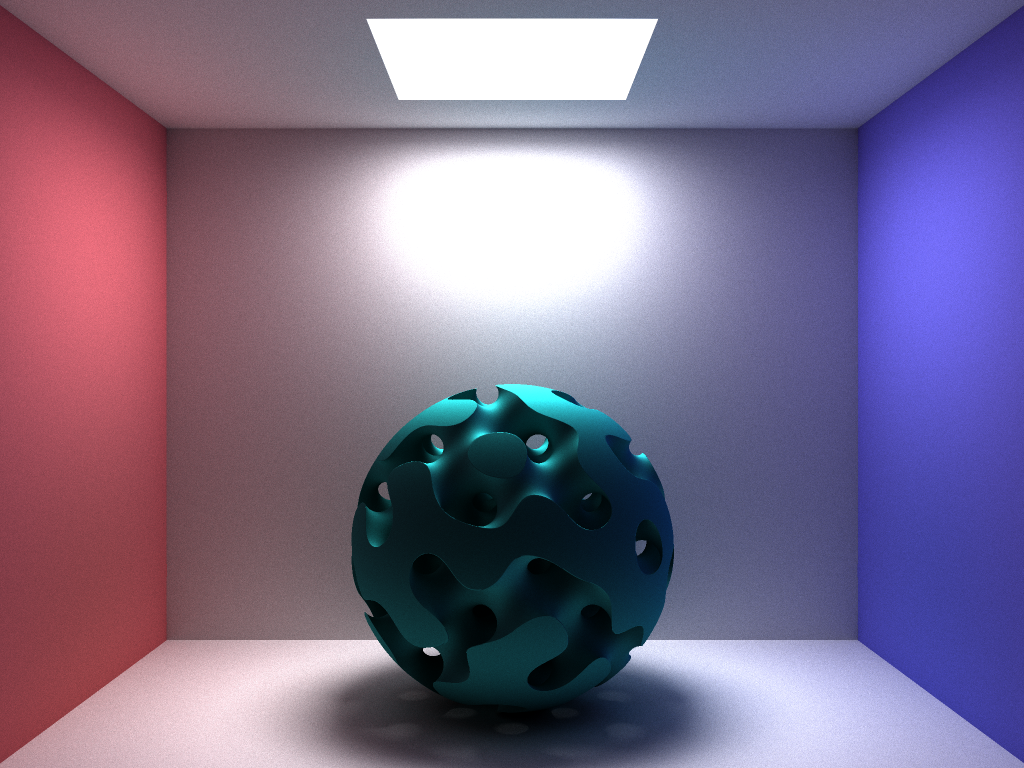
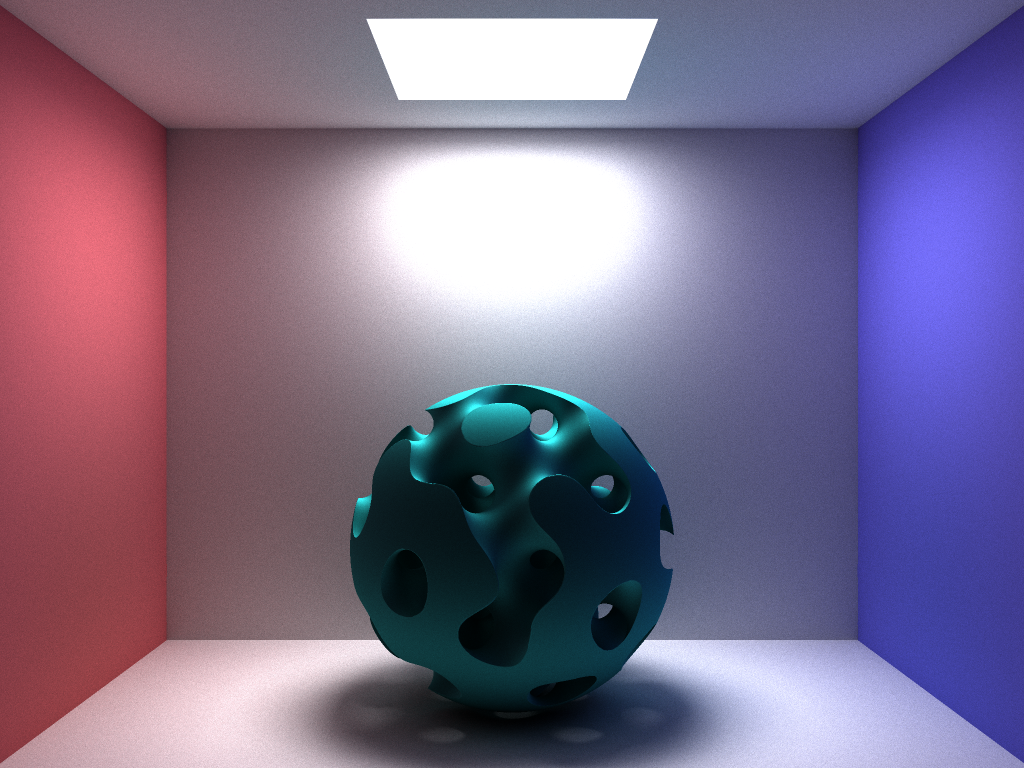
gyroid.png

Changed region(s): [[0.3438, 0.5, 0.6562, 0.9062], [0.5938, 0.6562, 0.6562, 0.75]]

diff --git a/client_main.cpp b/client_main.cpp
@@ -48,16 +48,17 @@ int main(int argc, char *argv[])
 	// gScene->SetObjectSpecularity(ConstructObjectID, 0.1);
 
 	// ======== CSG: gyroid in sphere
-	// uint32_t Sphere2ObjectID=gScene->AddObject(Object::ObjectType::SPHERE);
-	// gScene->SetObjectProperty(Sphere2ObjectID, Object::ObjectProperty::DIAMETER, 100.0);
-	// gScene->SetObjectPosition(Sphere2ObjectID, 0, 50, ObjectZpos);
+	uint32_t Sphere2ObjectID=gScene->AddObject(Object::ObjectType::SPHERE);
+	gScene->SetObjectProperty(Sphere2ObjectID, Object::ObjectProperty::DIAMETER, 100.0);
+	gScene->SetObjectPosition(Sphere2ObjectID, 0, 50, ObjectZpos);
 
-	// uint32_t GyroidObjectID=gScene->AddObject(Object::ObjectType::GYROID);
-	// gScene->SetObjectProperty(GyroidObjectID, Object::ObjectProperty::SCALE, 10.0);
-	// gScene->SetObjectPosition(GyroidObjectID, 0, 50, ObjectZpos);
+	uint32_t GyroidObjectID=gScene->AddObject(Object::ObjectType::GYROID);
+	gScene->SetObjectProperty(GyroidObjectID, Object::ObjectProperty::SCALE, 12.0);
+	gScene->SetObjectPosition(GyroidObjectID, 0, 50, ObjectZpos);
+	gScene->SetObjectOrientation(GyroidObjectID, 1, 0, 0, 0);
 
-	// uint32_t GyroidInSphereObjectID=gScene->AddObject(Object::ObjectType::INTERSECTION, Sphere2ObjectID, GyroidObjectID);
-	// gScene->SetObjectColor(GyroidInSphereObjectID, 30, 130, 130);
+	uint32_t GyroidInSphereObjectID=gScene->AddObject(Object::ObjectType::INTERSECTION, Sphere2ObjectID, GyroidObjectID);
+	gScene->SetObjectColor(GyroidInSphereObjectID, 30, 130, 130);
 
 	// ======== CSG: Schwarz primitive in sphere
 	// uint32_t Sphere3ObjectID=gScene->AddObject(Object::ObjectType::SPHERE);
@@ -106,13 +107,13 @@ int main(int argc, char *argv[])
 	RedSphere->SetColor(255, 52, 52);
 	// RedSphere->SetTransparency(0.5);
 
-	uint32_t Cylinder1ObjectID=gScene->AddObject(Object::ObjectType::CYLINDER);
-	gScene->SetObjectProperty(Cylinder1ObjectID, Object::ObjectProperty::DIAMETER, 60);
-	gScene->SetObjectProperty(Cylinder1ObjectID, Object::ObjectProperty::LENGTH, 60);
-	gScene->SetObjectPosition(Cylinder1ObjectID, 0, 50, ObjectZpos);
-	gScene->SetObjectOrientation(Cylinder1ObjectID, 1, 0, 1, 0);
-	gScene->SetObjectColor(Cylinder1ObjectID, 120, 20, 120);
-	gScene->SetObjectSpecularity(Cylinder1ObjectID, 1.0);
+	// uint32_t Cylinder1ObjectID=gScene->AddObject(Object::ObjectType::CYLINDER);
+	// gScene->SetObjectProperty(Cylinder1ObjectID, Object::ObjectProperty::DIAMETER, 60);
+	// gScene->SetObjectProperty(Cylinder1ObjectID, Object::ObjectProperty::LENGTH, 60);
+	// gScene->SetObjectPosition(Cylinder1ObjectID, 0, 50, ObjectZpos);
+	// gScene->SetObjectOrientation(Cylinder1ObjectID, 1, 0, 1, 0);
+	// gScene->SetObjectColor(Cylinder1ObjectID, 120, 20, 120);
+	// gScene->SetObjectSpecularity(Cylinder1ObjectID, 1.0);
 
 	// uint32_t InfiniteCylinder1ObjectID=gScene->AddObject(Object::ObjectType::INFINITE_CYLINDER);
 	// gScene->SetObjectProperty(InfiniteCylinder1ObjectID, Object::ObjectProperty::DIAMETER, 40);
@@ -183,8 +184,6 @@ int main(int argc, char *argv[])
 	gScene->AddObject(LightSource1);
 	// gScene->AddObject(LightSource2);
 
-	// gScene->AddObject(SphereSchwarzIntersection);
-
 	// gScene->AddObject(BlueSphere);
 	// gScene->AddObject(GreenSphere);
 	// gScene->AddObject(RedSphere);
@@ -193,22 +192,23 @@ int main(int argc, char *argv[])
 
 	char fileName[128];
 	int32_t i;
-	Ray::REFLECTIONS_LIMIT=6;
-	Scene::SAMPLES_PER_PIXEL=350;
+	Ray::REFLECTIONS_LIMIT=7;
+	Scene::SAMPLES_PER_PIXEL=1024;
 	for(i=0; i<50; i++)
 	{
 		// float spec=i*0.1;
-
-		// Cube2->SetOrientation(std::sin(i*M_PI_2/10.0), std::cos(i*M_PI_2/10.0), 0);
-		// Torus1->SetOrientation(0, std::sin(i*M_PI_2/10.0), std::cos(i*M_PI_2/10.0));
-		// NewSchwarzPrimitive->SetOrientation(std::sin(i*M_PI_2/50.0), 0, std::cos(i*M_PI_2/50.0));
-
-		gScene->SetObjectOrientation(Cylinder1ObjectID, std::sin(i*M_PI_2/50.0), 0, std::cos(i*M_PI_2/50.0), 0);
 
 		// RedSphere->SetSpecularity(spec);
 		// GreenSphere->SetSpecularity(spec);
 		// BlueSphere->SetSpecularity(spec);
 		// Construct->SetSpecularity(spec);
+
+		// Cube2->SetOrientation(std::sin(i*M_PI_2/10.0), std::cos(i*M_PI_2/10.0), 0);
+		// Torus1->SetOrientation(0, std::sin(i*M_PI_2/10.0), std::cos(i*M_PI_2/10.0));
+
+		// gScene->SetObjectOrientation(Cylinder1ObjectID, std::sin(i*M_PI_2/50.0), 0, std::cos(i*M_PI_2/50.0), 0);
+		// gScene->SetObjectOrientation(GyroidObjectID, std::sin(i*M_PI_2/50.0), 0, std::cos(i*M_PI_2/50.0), 0);
+		gScene->SetObjectPosition(GyroidObjectID, i/2.0, 50, ObjectZpos);
 
 		gScene->Render();
 
